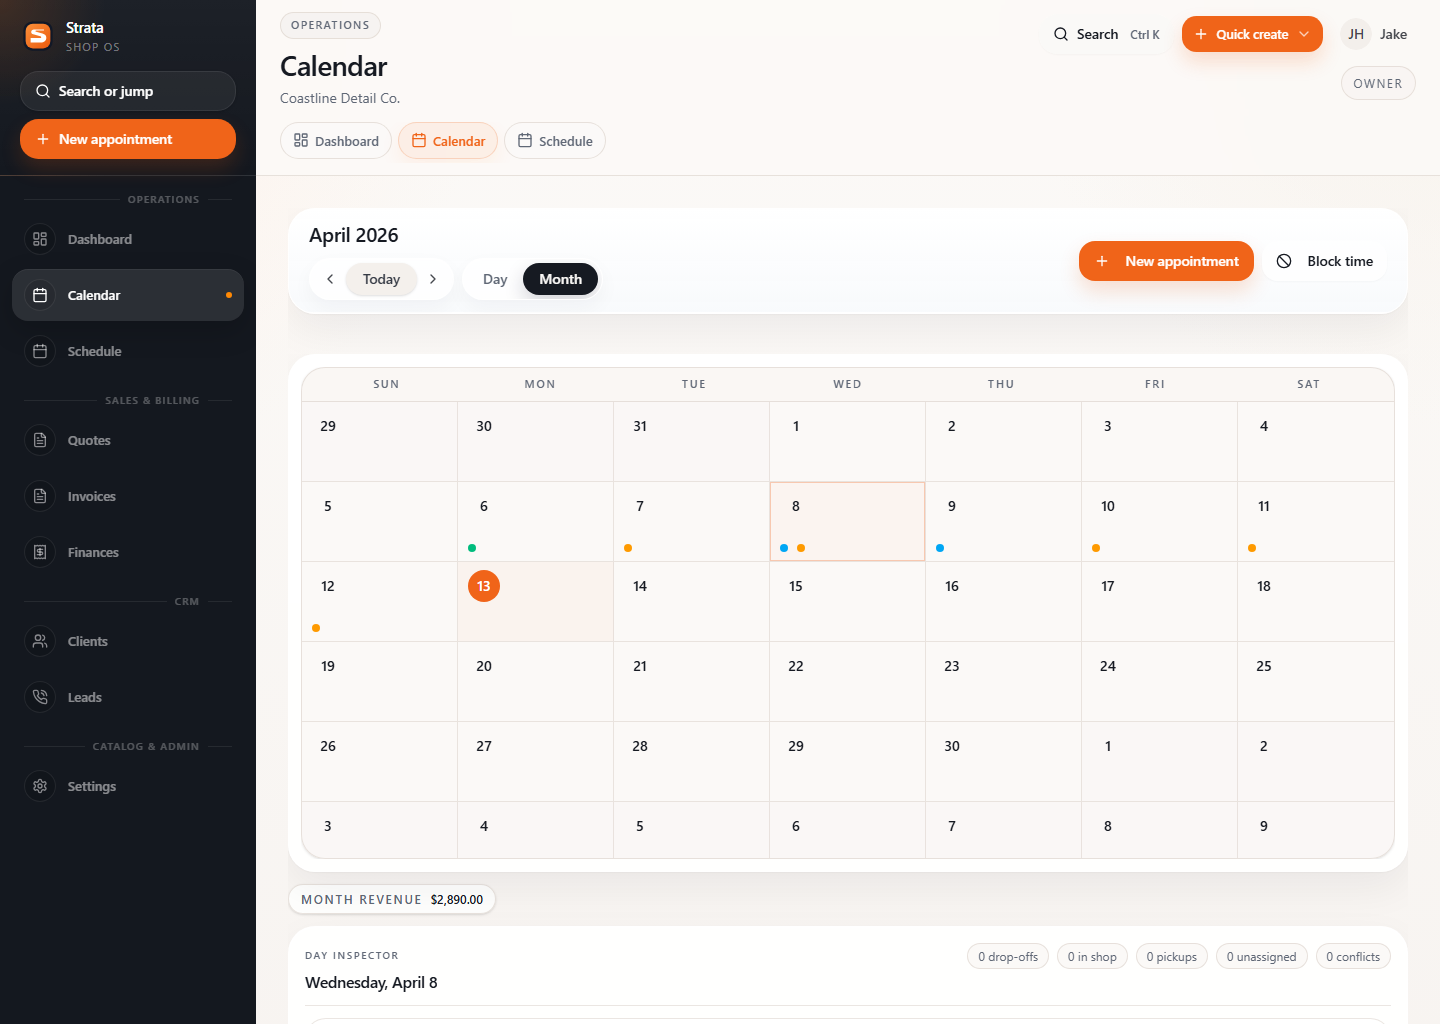
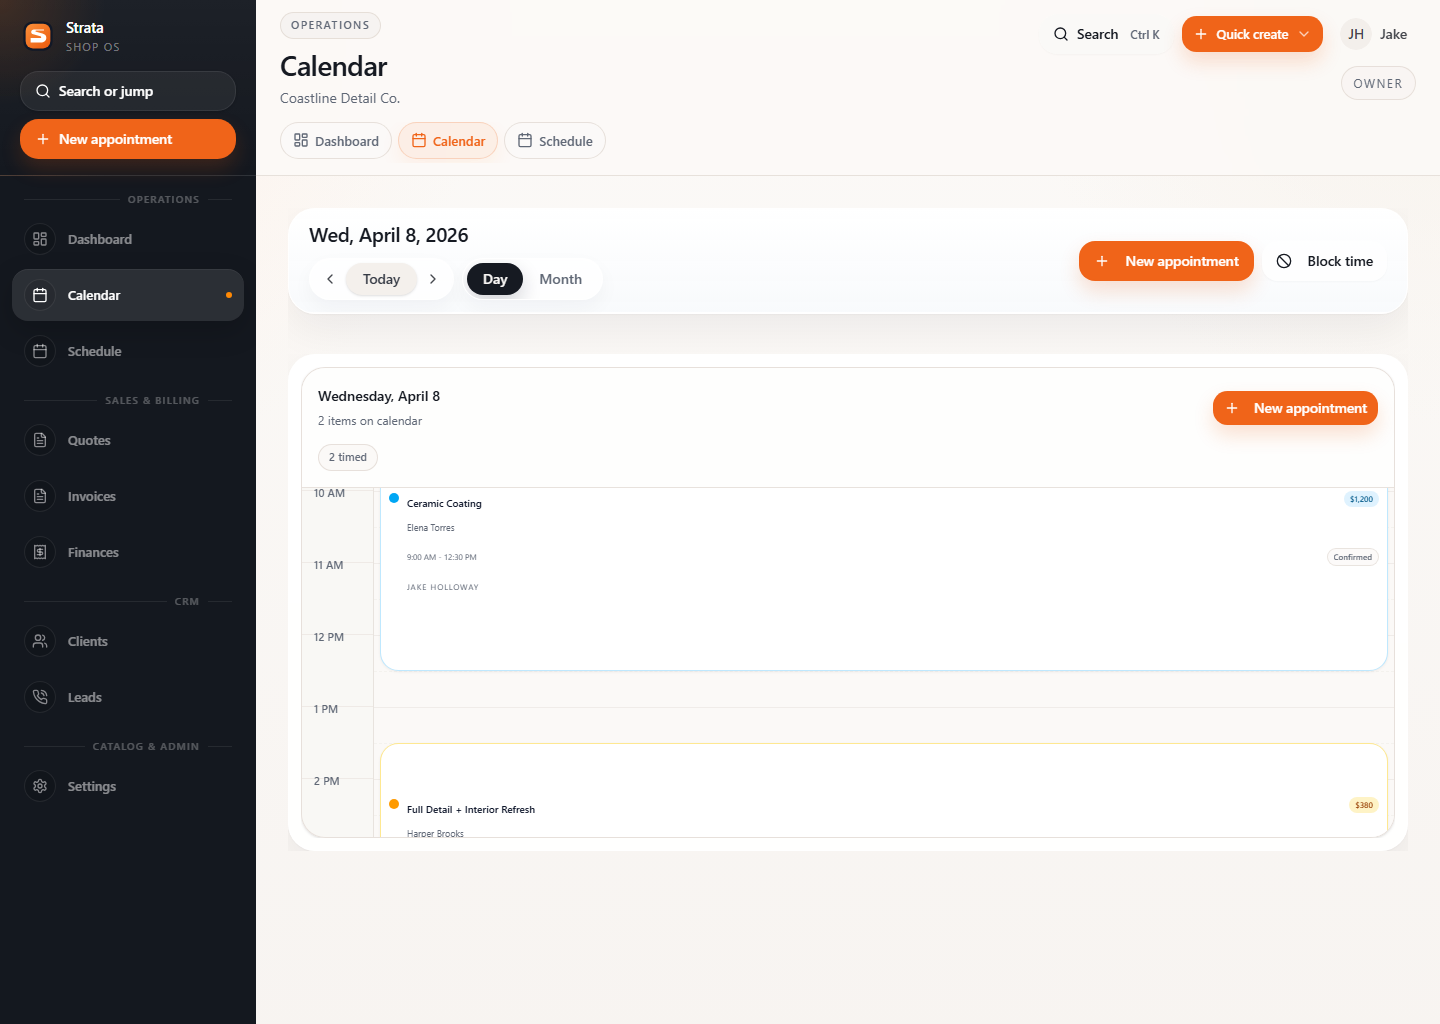
Adjust calendar marketing capture

diff --git a/e2e/marketing-screenshots.spec.ts b/e2e/marketing-screenshots.spec.ts
@@ -39,7 +39,7 @@ test.describe("Marketing screenshots", () => {
     await mockMarketingApp(page);
     await signIn(page);
     await page.setViewportSize({ width: 1440, height: 1024 });
-    await page.goto("/calendar?view=month&date=2026-04-08");
+    await page.goto("/calendar?view=day&date=2026-04-08");
     await expect(page.getByText("Ceramic Coating").first()).toBeVisible();
     await captureScreenshot(page, "hero-desktop-calendar", 960);
   });

diff --git a/public/marketing/strata-ui/SHOTLIST.md b/public/marketing/strata-ui/SHOTLIST.md
@@ -2,8 +2,8 @@
 
 ## Hero
 - `hero-desktop-calendar.png`
-  - Route: `/calendar?view=month&date=2026-04-08`
-  - Message: An active, organized schedule for Coastline Detail Co. across a busy week.
+  - Route: `/calendar?view=day&date=2026-04-08`
+  - Message: An active, organized daily schedule for Coastline Detail Co. with multiple bookings.
   - Placement: Hero desktop showcase
 - `hero-mobile-appointment.png`
   - Route: `/appointments/appt-ceramic-1`
